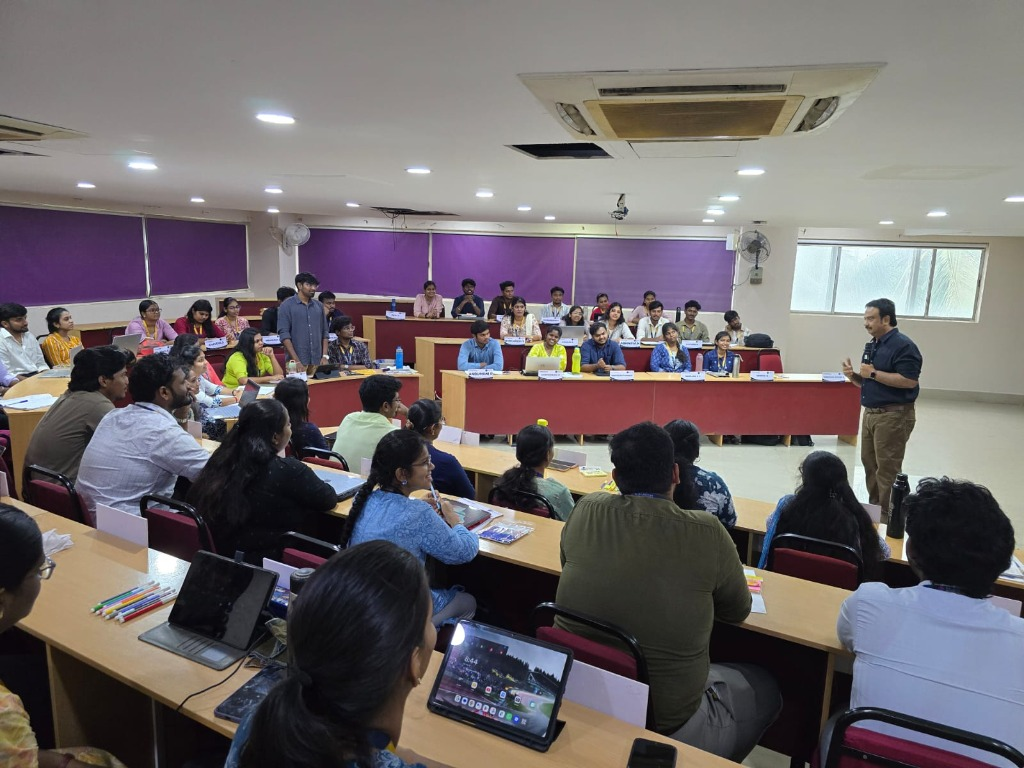
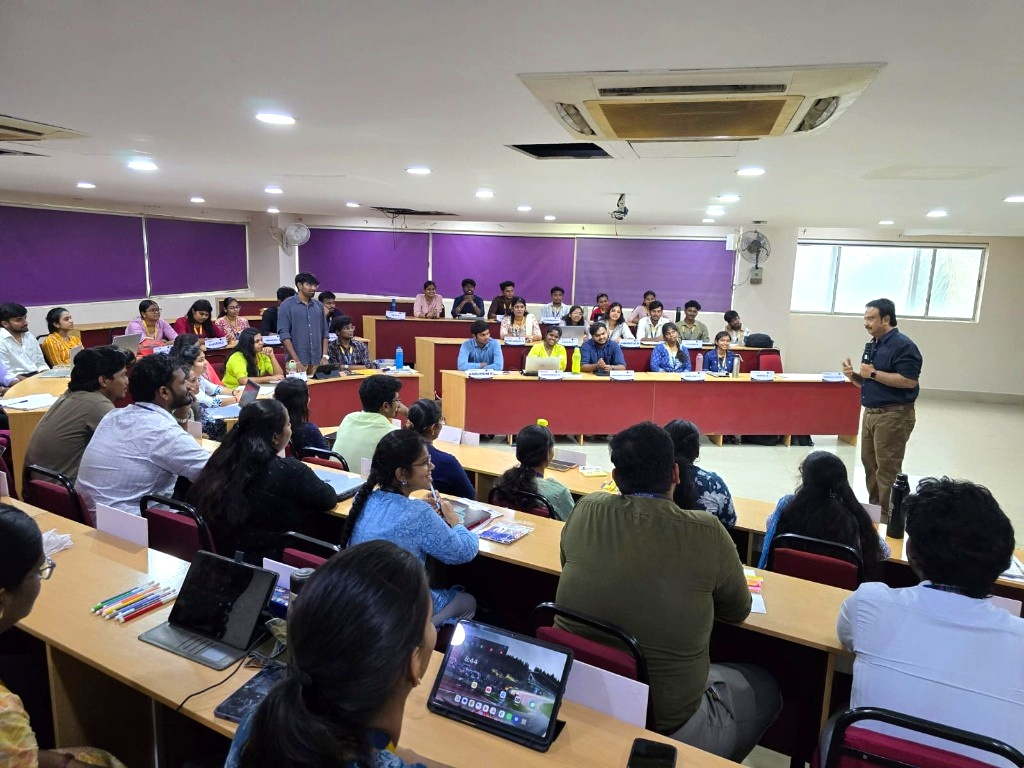
feat(hero): brighten background image, unblock Dr. Manimaran on right, and relocate architecture cards to clean floating strip

diff --git a/src/pages/Home.jsx b/src/pages/Home.jsx
@@ -27,134 +27,110 @@ export const Home = () => {
   return (
     <div className="space-y-0">
       {/* 1. HERO SECTION WITH BACKGROUND IMAGE */}
-      <section className="relative overflow-hidden bg-[#17365D] text-white py-16 sm:py-24 lg:py-28">
-        {/* Real Training & Leadership Session Photo with Directional Navy Gradient */}
+      <section className="relative overflow-hidden bg-[#17365D] text-white py-16 sm:py-24 lg:py-32">
+        {/* Real Training & Leadership Session Photo - Positioned to showcase Dr. Manimaran clearly on the right in bright natural light */}
         <div 
-          className="absolute inset-0 bg-cover bg-[center_35%] bg-no-repeat scale-[1.01]"
+          className="absolute inset-0 bg-cover bg-[85%_25%] sm:bg-[82%_30%] bg-no-repeat"
           style={{ backgroundImage: `url('/hero-bg.jpg')` }}
         />
-        {/* High-readability gradient: Deep navy on left for crisp text contrast, balanced overlay on right to show the real session */}
-        <div className="absolute inset-0 bg-gradient-to-r from-[#17365D]/95 via-[#17365D]/85 to-[#17365D]/50" />
-        <div className="absolute inset-0 bg-gradient-to-t from-[#17365D]/80 via-transparent to-black/25" />
+        {/* Directional gradient: Rich navy only on the left text area for crisp contrast, completely transparent on the right so Dr. Manimaran is bright and clearly visible */}
+        <div className="absolute inset-0 bg-gradient-to-r from-[#17365D]/95 via-[#17365D]/80 to-transparent lg:w-[56%] pointer-events-none" />
+        <div className="absolute inset-0 bg-gradient-to-t from-[#17365D]/60 via-transparent to-transparent pointer-events-none" />
 
         <div className="relative max-w-7xl mx-auto px-4 sm:px-6 lg:px-8">
-          <div className="grid grid-cols-1 lg:grid-cols-12 gap-12 lg:gap-8 items-center">
+          <div className="max-w-2xl space-y-6">
             
-            {/* Left Content Column */}
-            <div className="lg:col-span-7 space-y-6">
-              {/* Trust Badge */}
-              <div className="inline-flex items-center gap-2 px-3.5 py-1.5 rounded-full bg-white/10 backdrop-blur-md border border-white/20 text-xs sm:text-sm font-medium text-slate-200">
-                <span className="w-2 h-2 rounded-full bg-[#267C78]" />
-                <span>Enterprise IT Consulting & Digital Tech • Est. 2019</span>
-              </div>
-
-              {/* Exact Hero Headline */}
-              <h1 className="text-3xl sm:text-5xl lg:text-5xl font-extrabold text-white tracking-tight leading-[1.15]">
-                Engineering Intelligent Solutions for a Connected Future.
-              </h1>
-
-              {/* Exact Hero Supporting Text */}
-              <p className="text-base sm:text-lg text-slate-200 leading-relaxed max-w-2xl">
-                Empowering businesses through intelligent technology, enterprise solutions, and digital innovation.
-              </p>
-
-              {/* CTAs */}
-              <div className="flex flex-wrap items-center gap-4 pt-2">
-                <Button to="/services" variant="primary" size="lg" icon={ArrowRight}>
-                  Explore Our Services
-                </Button>
-                <Button to="/contact" variant="outlineWhite" size="lg">
-                  Contact Us
-                </Button>
-              </div>
-
-              {/* Trust highlights bar */}
-              <div className="pt-6 border-t border-white/15 grid grid-cols-3 gap-4 text-left">
-                <div>
-                  <span className="block text-xl sm:text-2xl font-bold text-white">2019</span>
-                  <span className="text-xs text-slate-300">Founded in Chennai</span>
-                </div>
-                <div>
-                  <span className="block text-xl sm:text-2xl font-bold text-[#267C78]">SAP S/4HANA</span>
-                  <span className="text-xs text-slate-300">Core Practice</span>
-                </div>
-                <div>
-                  <span className="block text-xl sm:text-2xl font-bold text-white">AI & ML</span>
-                  <span className="text-xs text-slate-300">Digital Solutions</span>
-                </div>
-              </div>
+            {/* Trust Badge */}
+            <div className="inline-flex items-center gap-2 px-3.5 py-1.5 rounded-full bg-white/15 backdrop-blur-md border border-white/25 text-xs sm:text-sm font-semibold text-white shadow-sm">
+              <span className="w-2 h-2 rounded-full bg-[#267C78]" />
+              <span>Enterprise IT Consulting & Digital Tech • Est. 2019</span>
             </div>
 
-            {/* Right Graphic: Enterprise Systems Architecture Visual */}
-            <div className="lg:col-span-5">
-              <div className="relative mx-auto max-w-md lg:max-w-none bg-white/10 backdrop-blur-md rounded-xl border border-white/20 p-6 sm:p-7 shadow-2xl">
-                
-                {/* Header card pill */}
-                <div className="flex items-center justify-between pb-3.5 border-b border-white/15">
-                  <div className="flex items-center gap-2.5">
-                    <div className="w-2.5 h-2.5 rounded-full bg-[#267C78]" />
-                    <span className="text-xs font-bold text-white uppercase tracking-wider">
-                      Enterprise Architecture
-                    </span>
-                  </div>
-                  <span className="text-[11px] font-semibold text-white bg-[#267C78] px-2 py-0.5 rounded">
-                    Active Stack
-                  </span>
-                </div>
+            {/* Exact Hero Headline */}
+            <h1 className="text-3xl sm:text-5xl lg:text-5xl font-extrabold text-white tracking-tight leading-[1.15] drop-shadow-sm">
+              Engineering Intelligent Solutions for a Connected Future.
+            </h1>
 
-                {/* Layered architectural representation */}
-                <div className="space-y-3 my-5">
-                  {/* Layer 1: Intelligence */}
-                  <div className="bg-white/95 text-[#263442] rounded-lg p-3.5 shadow-sm flex items-start gap-3">
-                    <div className="p-2 rounded bg-[#267C78]/10 text-[#267C78] shrink-0 mt-0.5">
-                      <Cpu className="w-4 h-4" />
-                    </div>
-                    <div>
-                      <h4 className="text-sm font-bold text-[#17365D]">AI & Data Science</h4>
-                      <p className="text-xs text-[#263442]/80 mt-0.5">
-                        Predictive algorithms and automated decision pipelines.
-                      </p>
-                    </div>
-                  </div>
+            {/* Exact Hero Supporting Text */}
+            <p className="text-base sm:text-lg text-slate-100 leading-relaxed max-w-xl">
+              Empowering businesses through intelligent technology, enterprise solutions, and digital innovation.
+            </p>
 
-                  {/* Layer 2: ERP Backbone */}
-                  <div className="bg-white/95 text-[#263442] rounded-lg p-3.5 shadow-sm flex items-start gap-3">
-                    <div className="p-2 rounded bg-[#17365D]/10 text-[#17365D] shrink-0 mt-0.5">
-                      <Layers className="w-4 h-4" />
-                    </div>
-                    <div>
-                      <h4 className="text-sm font-bold text-[#17365D]">SAP S/4HANA & ERP</h4>
-                      <p className="text-xs text-[#263442]/80 mt-0.5">
-                        Core implementation, migration, and SLA maintenance.
-                      </p>
-                    </div>
-                  </div>
-
-                  {/* Layer 3: Integration & Talent */}
-                  <div className="bg-white/95 text-[#263442] rounded-lg p-3.5 shadow-sm flex items-start gap-3">
-                    <div className="p-2 rounded bg-slate-100 text-[#263442] shrink-0 mt-0.5">
-                      <Users2 className="w-4 h-4" />
-                    </div>
-                    <div>
-                      <h4 className="text-sm font-bold text-[#17365D]">Consulting & Staffing</h4>
-                      <p className="text-xs text-[#263442]/80 mt-0.5">
-                        Strategic tech advisory and on-demand engineering pods.
-                      </p>
-                    </div>
-                  </div>
-                </div>
-
-                {/* Footer status notice */}
-                <div className="pt-3 border-t border-white/15 flex items-center justify-between text-xs text-slate-300">
-                  <span>Chennai, Tamil Nadu, India</span>
-                  <span className="font-semibold text-white">Verified Practice</span>
-                </div>
-              </div>
+            {/* CTAs */}
+            <div className="flex flex-wrap items-center gap-4 pt-2">
+              <Button to="/services" variant="primary" size="lg" icon={ArrowRight}>
+                Explore Our Services
+              </Button>
+              <Button to="/contact" variant="outlineWhite" size="lg">
+                Contact Us
+              </Button>
             </div>
 
+            {/* Trust highlights bar */}
+            <div className="pt-6 border-t border-white/20 grid grid-cols-3 gap-4 text-left max-w-lg">
+              <div>
+                <span className="block text-xl sm:text-2xl font-bold text-white">2019</span>
+                <span className="text-xs text-slate-200">Founded in Chennai</span>
+              </div>
+              <div>
+                <span className="block text-xl sm:text-2xl font-bold text-[#267C78]">SAP S/4HANA</span>
+                <span className="text-xs text-slate-200">Core Practice</span>
+              </div>
+              <div>
+                <span className="block text-xl sm:text-2xl font-bold text-white">AI & ML</span>
+                <span className="text-xs text-slate-200">Digital Solutions</span>
+              </div>
+            </div>
           </div>
         </div>
+
+        {/* Leadership Session Caption Tag on the Right */}
+        <div className="hidden lg:flex absolute bottom-6 right-8 z-20 items-center gap-2 px-3.5 py-1.5 rounded-full bg-[#17365D]/80 backdrop-blur-md border border-white/20 text-white text-xs shadow-lg">
+          <span className="w-2 h-2 rounded-full bg-emerald-400 animate-pulse" />
+          <span className="font-medium tracking-wide">Dr. Manimaran • Distinct Systems Leadership Session</span>
+        </div>
       </section>
+
+      {/* Floating Architecture 3-Card Deck (Positioned below Hero, leaving the hero photo completely open & visible) */}
+      <div className="max-w-7xl mx-auto px-4 sm:px-6 lg:px-8 -mt-8 relative z-20">
+        <div className="grid grid-cols-1 md:grid-cols-3 gap-4">
+          <div className="bg-white rounded-xl p-5 border border-slate-200 shadow-card hover:shadow-card-hover transition-all flex items-start gap-3.5">
+            <div className="p-2.5 rounded-lg bg-[#267C78]/10 text-[#267C78] shrink-0">
+              <Cpu className="w-5 h-5" />
+            </div>
+            <div>
+              <h4 className="text-sm font-bold text-[#17365D]">AI & Data Science</h4>
+              <p className="text-xs text-[#263442]/80 mt-0.5 leading-relaxed">
+                Predictive algorithms, machine learning pipelines, and automated intelligence.
+              </p>
+            </div>
+          </div>
+
+          <div className="bg-white rounded-xl p-5 border border-slate-200 shadow-card hover:shadow-card-hover transition-all flex items-start gap-3.5">
+            <div className="p-2.5 rounded-lg bg-[#17365D]/10 text-[#17365D] shrink-0">
+              <Layers className="w-5 h-5" />
+            </div>
+            <div>
+              <h4 className="text-sm font-bold text-[#17365D]">SAP S/4HANA & ERP</h4>
+              <p className="text-xs text-[#263442]/80 mt-0.5 leading-relaxed">
+                Core implementation, smooth digital migration, and SLA-governed maintenance.
+              </p>
+            </div>
+          </div>
+
+          <div className="bg-white rounded-xl p-5 border border-slate-200 shadow-card hover:shadow-card-hover transition-all flex items-start gap-3.5">
+            <div className="p-2.5 rounded-lg bg-[#267C78]/10 text-[#267C78] shrink-0">
+              <Users2 className="w-5 h-5" />
+            </div>
+            <div>
+              <h4 className="text-sm font-bold text-[#17365D]">Consulting & Staffing</h4>
+              <p className="text-xs text-[#263442]/80 mt-0.5 leading-relaxed">
+                Strategic technology advisory and specialized on-demand engineering pods.
+              </p>
+            </div>
+          </div>
+        </div>
+      </div>
 
       {/* 2. COMPANY INTRODUCTION / VERIFIED PROFILE */}
       <section className="py-14">
